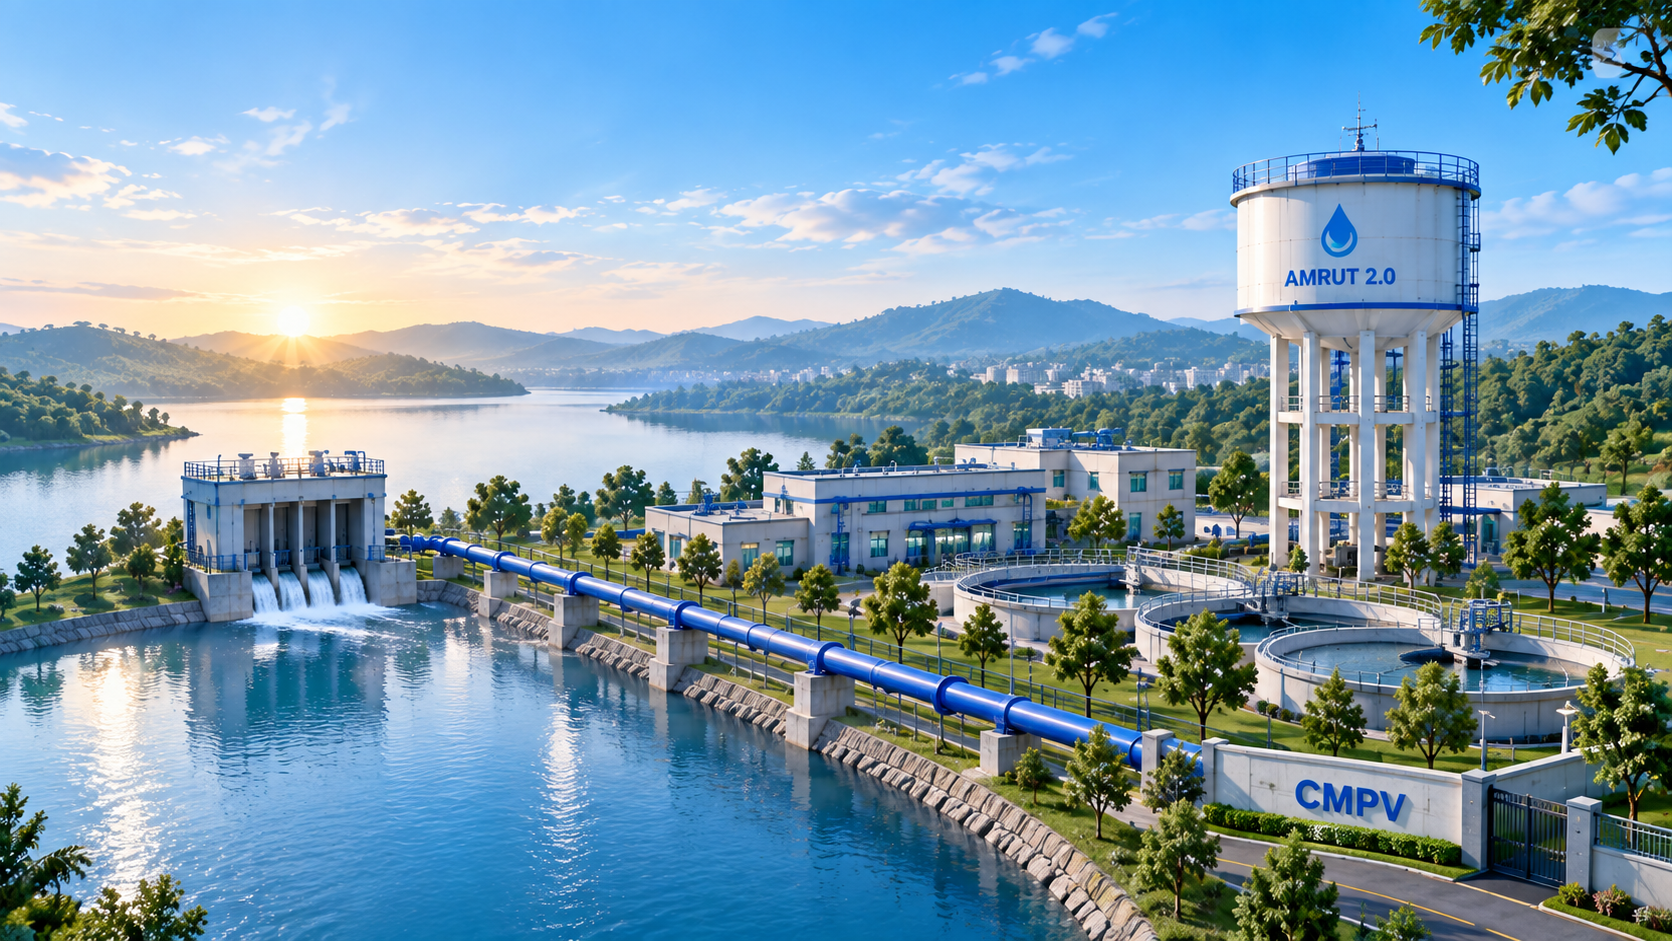
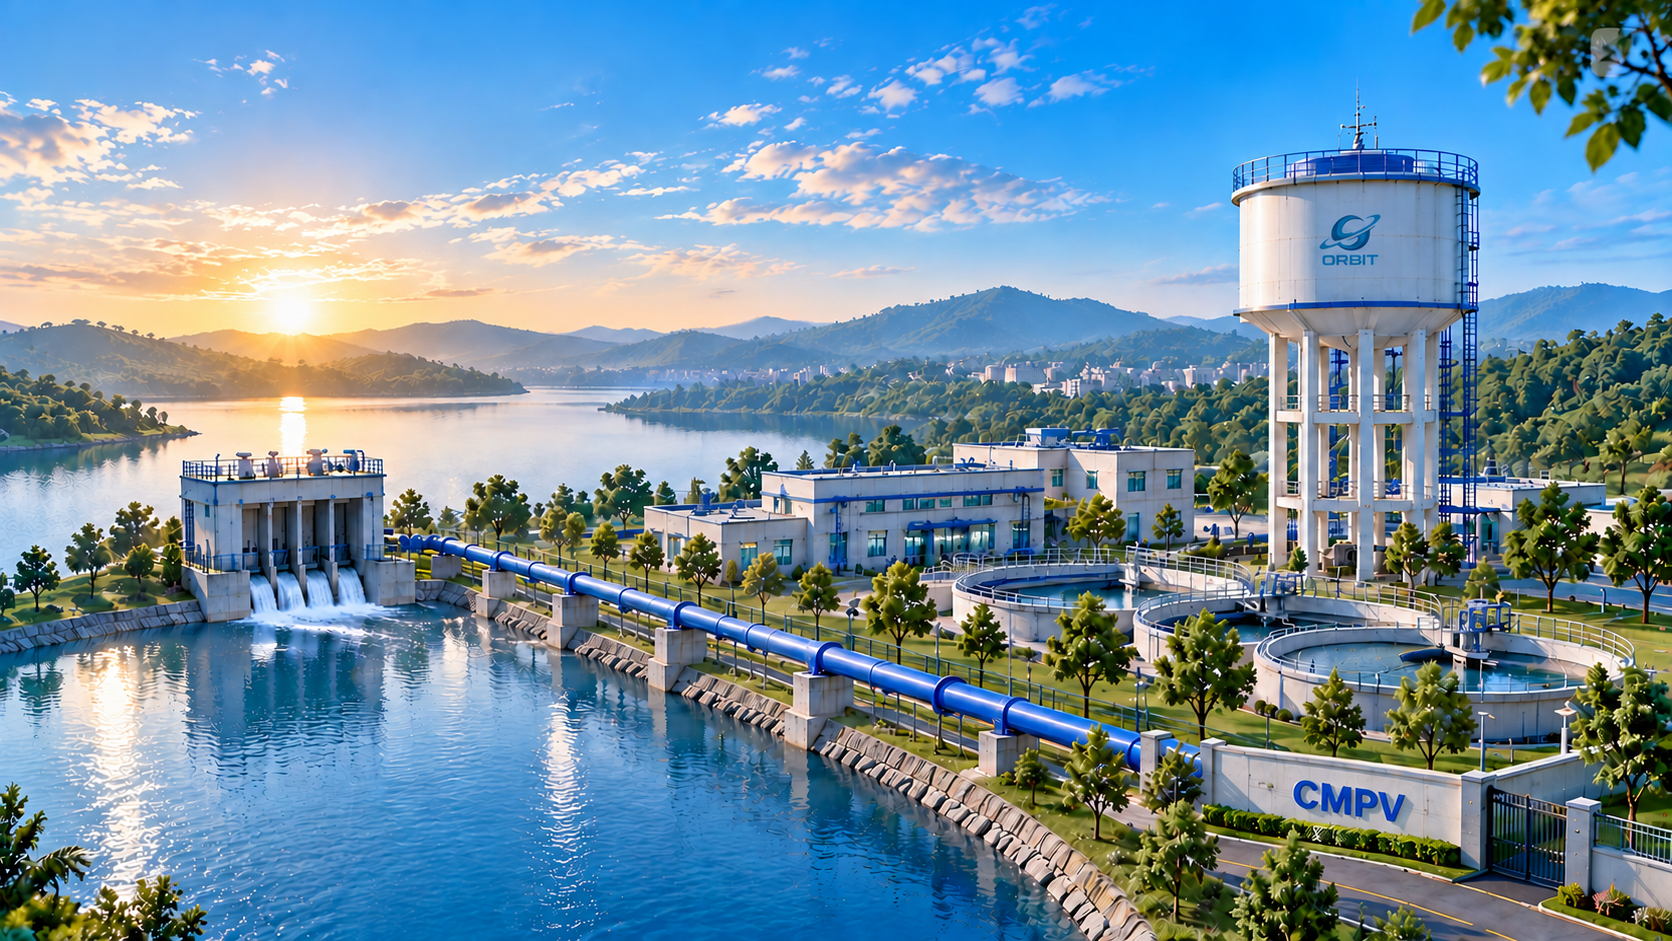
Update sign-in UI to match reference design and fix input placeholders

diff --git a/src/pages/LoginPage.tsx b/src/pages/LoginPage.tsx
@@ -1,43 +1,65 @@
-import React, { useState, useEffect } from 'react';
+import React, { useState } from 'react';
 import { useAuth } from '@/contexts/AuthContext';
-import { Lock, User, AlertCircle, Sun, Moon } from 'lucide-react';
-import orbitLogo from '@/assets/orbit-logo-optimized.png';
+import {
+  Lock,
+  User,
+  AlertCircle,
+  LogIn,
+  Activity,
+  Shield,
+  Leaf,
+  Users,
+  Eye,
+  EyeOff,
+} from 'lucide-react';
+import orbitSwirl from '@/assets/orbit-swirl.png';
 import loginBg from '@/assets/sign-in-bg.png';
 import { useLogoPreload } from '@/hooks/useLogoPreload';
+
+const AscendingBarChart = ({ className = 'w-3.5 h-3.5' }: { className?: string }) => (
+  <svg
+    viewBox="0 0 20 20"
+    fill="currentColor"
+    className={className}
+    aria-hidden="true"
+  >
+    <rect x="3" y="10.5" width="3" height="7.5" rx="1.5" />
+    <rect x="8.5" y="6.5" width="3" height="11.5" rx="1.5" />
+    <rect x="14" y="2.5" width="3" height="15.5" rx="1.5" />
+  </svg>
+);
+
+const features = [
+  {
+    icon: AscendingBarChart,
+    title: 'Real-time Monitoring',
+    subtitle: 'Data-driven operations',
+  },
+  {
+    icon: Shield,
+    title: 'Reliable Infrastructure',
+    subtitle: 'Safe & continuous supply',
+  },
+  {
+    icon: Leaf,
+    title: 'Sustainable Operations',
+    subtitle: 'Cleaner communities',
+  },
+  {
+    icon: Users,
+    title: 'Engineering Excellence',
+    subtitle: 'People. Process. Performance.',
+  },
+];
 
 const LoginPage = () => {
   const { login } = useAuth();
   const [username, setUsername] = useState('');
   const [password, setPassword] = useState('');
+  const [showPassword, setShowPassword] = useState(false);
   const [error, setError] = useState('');
   const [loading, setLoading] = useState(false);
-  const imagesReady = useLogoPreload([orbitLogo, loginBg]);
-
-  const [isDark, setIsDark] = useState(() => {
-    if (typeof window !== 'undefined') {
-      const saved = localStorage.getItem('theme');
-      if (saved) return saved === 'dark';
-      const hour = new Date().getHours();
-      const isDaytime = hour >= 6 && hour < 18;
-      return !isDaytime;
-    }
-    return true;
-  });
-
-  const toggleTheme = () => {
-    const next = !isDark;
-    setIsDark(next);
-    document.documentElement.classList.toggle('dark', next);
-    localStorage.setItem('theme', next ? 'dark' : 'light');
-  };
-
-  useEffect(() => {
-    if (isDark) {
-      document.documentElement.classList.add('dark');
-    } else {
-      document.documentElement.classList.remove('dark');
-    }
-  }, [isDark]);
+  const imagesReady = useLogoPreload([orbitSwirl, loginBg]);
 
   const handleSubmit = async (e: React.FormEvent) => {
     e.preventDefault();
@@ -58,120 +80,201 @@ const LoginPage = () => {
 
   if (!imagesReady) {
     return (
-      <div className="min-h-screen bg-background grid-pattern relative overflow-hidden" aria-hidden="true">
-        <div className="floating-orb w-96 h-96 bg-primary -top-40 -left-40" />
-        <div className="floating-orb w-80 h-80 bg-accent top-1/2 -right-32" style={{ animationDelay: '7s' }} />
+      <div className="min-h-screen bg-slate-900 flex items-center justify-center">
+        <div className="w-8 h-8 border-3 border-blue-500/30 border-t-blue-500 rounded-full animate-spin" />
       </div>
     );
   }
 
   return (
     <div
-      className="min-h-screen flex items-center justify-center bg-cover bg-center bg-no-repeat relative overflow-hidden px-4"
+      className="min-h-screen w-full relative flex items-center justify-center bg-cover bg-[center_35%] bg-no-repeat overflow-hidden select-none font-sans"
       style={{ backgroundImage: `url(${loginBg})` }}
     >
-      {/* Background Overlay */}
-      <div className="absolute inset-0 bg-background/20 dark:bg-background/50 grid-pattern pointer-events-none" />
+      {/* Top Left Company Brand Lockup */}
+      <header className="absolute top-4 left-4 sm:top-6 sm:left-9 z-20 flex items-center">
+        <img
+          src={orbitSwirl}
+          alt="Orbit Logo"
+          className="h-[30px] sm:h-[34px] w-auto object-contain flex-shrink-0"
+          loading="eager"
+          decoding="sync"
+        />
+        <div className="ml-2.5 flex flex-col justify-center leading-none">
+          <span className="text-[#0b2444] font-black text-[15px] sm:text-[17px] tracking-wide leading-none">
+            ORBIT
+          </span>
+          <span className="text-[#152e4d] font-bold text-[7.5px] sm:text-[8.5px] tracking-[0.16em] uppercase leading-none mt-1">
+            ENGINEERING SOLUTIONS
+          </span>
+        </div>
+        <div className="hidden sm:block mx-3 sm:mx-3.5 w-[1.2px] h-7 bg-slate-400/50 self-center" />
+        <div className="hidden sm:flex flex-col justify-center text-[10px] sm:text-[10.5px] font-medium text-[#152e4d] leading-[1.22]">
+          <span>Engineering</span>
+          <span>Sustainable</span>
+          <span>Tomorrows</span>
+        </div>
+      </header>
 
-      <div className="floating-orb w-96 h-96 bg-primary -top-40 -left-40 z-0" />
-      <div className="floating-orb w-80 h-80 bg-accent top-1/2 -right-32 z-0" style={{ animationDelay: '7s' }} />
+      {/* Left Column: Smart Water Infrastructure Hero & Features */}
+      <section
+        aria-label="Features"
+        className="hidden md:flex flex-col absolute left-7 sm:left-9 lg:left-10 bottom-[54px] z-10 max-w-[290px] lg:max-w-[310px]"
+      >
+        <div className="mb-3.5">
+          <h2 className="text-[21px] sm:text-[23px] font-bold text-white tracking-tight leading-[1.14] drop-shadow-[0_2px_6px_rgba(0,0,0,0.5)]">
+            Smart Water
+            <br />
+            Infrastructure
+            <br />
+            <span className="text-[#00a2ff] drop-shadow-[0_2px_8px_rgba(0,162,255,0.4)]">
+              for a Better Tomorrow
+            </span>
+          </h2>
+        </div>
 
-      <button onClick={toggleTheme}
-        className="absolute top-4 right-4 sm:top-8 sm:right-8 p-2.5 rounded-xl bg-secondary/80 hover:bg-secondary transition-all duration-200 border border-border/50 hover:scale-105 active:scale-95 z-50 shadow-sm"
-        title={isDark ? 'Switch to Light Mode' : 'Switch to Dark Mode'}>
-        {isDark ? <Sun className="h-5 w-5 text-warning" /> : <Moon className="h-5 w-5 text-foreground" />}
-      </button>
-
-      <div className="w-full max-w-md relative z-10">
-        <div className="glass-strong rounded-3xl p-8 sm:p-10 shadow-2xl border border-border/50">
-          <div className="flex items-center justify-center gap-4 mb-6">
-            <div className="flex items-center gap-2 select-none">
-              <div className="flex flex-col items-start leading-none gap-1">
-                <span className="text-[8px] sm:text-[10px] font-black tracking-[0.2em] text-cyan-600 dark:text-cyan-400 uppercase px-2 py-0.5 rounded bg-cyan-500/10 border border-cyan-500/20 dark:bg-cyan-400/10 dark:border-cyan-400/20">M/S</span>
-                <span className="text-xs sm:text-sm md:text-base font-black tracking-wider bg-gradient-to-r from-cyan-600 via-teal-600 to-emerald-600 dark:from-cyan-400 dark:via-teal-400 dark:to-emerald-400 bg-clip-text text-transparent drop-shadow-sm uppercase font-sans">
-                  CMPV Engineering Pvt. Ltd.
+        <div className="space-y-2.5">
+          {features.map((item, idx) => (
+            <div key={idx} className="flex items-center gap-2.5">
+              <div className="w-[31px] h-[31px] sm:w-[33px] sm:h-[33px] rounded-xl bg-white/20 backdrop-blur-md border border-white/35 flex items-center justify-center text-white shadow-[0_2px_6px_rgba(0,0,0,0.12)] flex-shrink-0">
+                <item.icon className="w-3.5 h-3.5 stroke-[2.2] drop-shadow-sm" />
+              </div>
+              <div className="flex flex-col leading-tight">
+                <span className="text-white font-semibold text-[11.5px] sm:text-[12px] tracking-wide drop-shadow-[0_1px_3px_rgba(0,0,0,0.6)]">
+                  {item.title}
+                </span>
+                <span className="text-white/85 font-normal text-[9.5px] sm:text-[10px] drop-shadow-[0_1px_2px_rgba(0,0,0,0.6)] mt-0.5">
+                  {item.subtitle}
                 </span>
               </div>
             </div>
-            <div className="w-px h-10 bg-border/50" />
-            <img src={orbitLogo} alt="Orbit" className="h-8 sm:h-10 w-auto" loading="eager" decoding="sync" fetchPriority="high" />
+          ))}
+        </div>
+      </section>
+
+      {/* Bottom Left Tagline */}
+      <footer className="absolute bottom-4 left-7 sm:bottom-4.5 sm:left-9 z-20 hidden sm:flex items-center gap-2">
+        <div className="w-4 h-[2px] bg-[#00a2ff] rounded-full drop-shadow-sm" />
+        <span className="text-white/95 text-[9px] font-bold tracking-[0.22em] uppercase drop-shadow-[0_1px_4px_rgba(0,0,0,0.6)]">
+          WATER &nbsp;|&nbsp; TECHNOLOGY &nbsp;|&nbsp; A BETTER TOMORROW
+        </span>
+      </footer>
+
+      {/* Main Glass Login Card */}
+      <main className="w-full max-w-[318px] mx-4 relative z-20 md:translate-x-[22px] -translate-y-0.5">
+        <div className="rounded-[32px] bg-white/85 backdrop-blur-2xl border border-white/85 shadow-[0_20px_50px_rgba(0,0,0,0.12),0_1px_3px_rgba(0,0,0,0.05)] pt-6 sm:pt-6.5 pb-6 px-6 sm:px-7 text-slate-800 transition-all">
+          {/* SCADA Portal Pill Badge */}
+          <div className="flex justify-center mb-2.5">
+            <div className="inline-flex items-center gap-1.5 px-3 py-0.5 rounded-full bg-[#e8f1fd] text-[#1d4ed8] text-[9.5px] font-bold tracking-wider uppercase shadow-xs">
+              <Activity className="w-3 h-3 stroke-[2.5]" />
+              <span>SCADA PORTAL</span>
+            </div>
           </div>
 
-          <div className="text-center mb-6">
-            <div className="inline-flex items-center gap-1 px-2.5 py-0.5 rounded-full bg-blue-500/10 dark:bg-blue-500/20 border border-blue-500/15 text-blue-600 dark:text-cyan-400 font-extrabold text-[9px] uppercase tracking-wider mb-3">
-              <span className="w-1 h-1 rounded-full bg-blue-500 animate-pulse" />
-              Package-61 · MPUDCL
-            </div>
-            
-            <h1 className="text-base sm:text-lg font-black text-foreground leading-snug tracking-tight mb-1">
-              Improvement of Water Supply Scheme
+          {/* Plant / Project Headings */}
+          <div className="text-center mb-3">
+            <h1 className="text-[14.5px] sm:text-[15px] font-extrabold text-[#0a1931] uppercase tracking-wide leading-tight">
+              CMPV ENGINEERING PVT. LTD.
             </h1>
-            
-            <p className="text-xs sm:text-sm font-extrabold bg-gradient-to-r from-blue-600 to-indigo-500 dark:from-cyan-400 dark:to-blue-400 bg-clip-text text-transparent mb-4 uppercase">
-              Shahpur, Distt. Sagar (M.P.)
+            <p className="text-[10.5px] sm:text-[11px] font-medium text-[#4b5563] mt-1 leading-snug">
+              Improvement of Water Supply Scheme
             </p>
-
-            <div className="flex items-center justify-center gap-2 text-[10px] text-muted-foreground font-semibold px-3 py-1.5 rounded-xl bg-slate-50 dark:bg-slate-900/40 border border-slate-200/40 dark:border-slate-800/40 mb-4 max-w-sm mx-auto">
-              <span>Client: <span className="text-foreground">MPUDCL</span></span>
-              <span className="w-1 h-1 rounded-full bg-border" />
-              <span>Capacity: <span className="text-foreground">1.75 MLD</span></span>
-            </div>
-
-            <div className="flex items-center justify-center gap-2">
-              <p className="text-xl sm:text-2xl font-black tracking-tight bg-gradient-to-r from-blue-600 via-indigo-600 to-violet-600 dark:from-cyan-400 dark:via-blue-400 dark:to-indigo-400 bg-clip-text text-transparent">
-                SCADA
-              </p>
-              <span className="flex items-center gap-0.5 px-1.5 py-0.5 rounded bg-emerald-500/10 dark:bg-emerald-500/20 border border-emerald-500/20 text-emerald-500 text-[8px] font-black uppercase tracking-wider">
-                LIVE
-              </span>
-            </div>
-            <p className="text-[10px] text-muted-foreground mt-1.5">Sign in to access the real-time monitoring dashboard</p>
+            <p className="text-[10px] sm:text-[10.5px] font-bold text-[#1d4ed8] uppercase tracking-wider mt-0.5">
+              SHAHPUR, DISTT. SAGAR (M.P.)
+            </p>
+            <div className="w-full h-px bg-slate-200/80 mt-3.5 mb-3" />
           </div>
 
-          <form onSubmit={handleSubmit} className="space-y-5">
+          {/* Login Form */}
+          <form onSubmit={handleSubmit} className="space-y-2.5">
             <div>
-              <label className="text-sm font-medium text-foreground mb-1.5 block">Username</label>
-              <div className="relative">
-                <User className="absolute left-3 top-1/2 -translate-y-1/2 h-4 w-4 text-muted-foreground" />
-                <input type="text" value={username} onChange={(e) => setUsername(e.target.value)} placeholder="Enter username"
-                  className="w-full pl-10 pr-4 py-3 rounded-xl bg-secondary/80 border border-border/50 text-foreground placeholder:text-muted-foreground focus:outline-none focus:ring-2 focus:ring-primary/50 transition-all"
-                  required autoComplete="username" autoFocus />
+              <label className="block text-[11px] font-semibold text-[#1e293b] mb-1">
+                Username
+              </label>
+              <div className="relative flex items-center">
+                <User className="absolute left-3.5 h-3.5 w-3.5 text-[#475569] pointer-events-none" />
+                <input
+                  type="text"
+                  value={username}
+                  onChange={(e) => setUsername(e.target.value)}
+                  placeholder="Username"
+                  className="w-full pl-9 pr-3.5 h-10 rounded-2xl bg-[#edf2f7] text-[12px] font-normal text-[#1e293b] placeholder:text-[#94a3b8] border border-transparent focus:border-blue-400 focus:bg-white focus:outline-none transition-all"
+                  required
+                  autoComplete="username"
+                />
               </div>
             </div>
 
             <div>
-              <label className="text-sm font-medium text-foreground mb-1.5 block">Password</label>
-              <div className="relative">
-                <Lock className="absolute left-3 top-1/2 -translate-y-1/2 h-4 w-4 text-muted-foreground" />
-                <input type="password" value={password} onChange={(e) => setPassword(e.target.value)} placeholder="Enter password"
-                  className="w-full pl-10 pr-4 py-3 rounded-xl bg-secondary/80 border border-border/50 text-foreground placeholder:text-muted-foreground focus:outline-none focus:ring-2 focus:ring-primary/50 transition-all"
-                  required autoComplete="current-password" />
+              <label className="block text-[11px] font-semibold text-[#1e293b] mb-1">
+                Password
+              </label>
+              <div className="relative flex items-center">
+                <Lock className="absolute left-3.5 h-3.5 w-3.5 text-[#475569] pointer-events-none" />
+                <input
+                  type={showPassword ? 'text' : 'password'}
+                  value={password}
+                  onChange={(e) => setPassword(e.target.value)}
+                  placeholder="Password"
+                  className="w-full pl-9 pr-9 h-10 rounded-2xl bg-[#edf2f7] text-[12px] font-normal text-[#1e293b] placeholder:text-[#94a3b8] border border-transparent focus:border-blue-400 focus:bg-white focus:outline-none transition-all"
+                  required
+                  autoComplete="current-password"
+                />
+                <button
+                  type="button"
+                  onClick={() => setShowPassword(!showPassword)}
+                  className="absolute right-3.5 p-0.5 text-[#64748b] hover:text-[#1e293b] transition-colors focus:outline-none cursor-pointer"
+                  aria-label={showPassword ? 'Hide password' : 'Show password'}
+                >
+                  {showPassword ? (
+                    <Eye className="h-3.5 w-3.5" />
+                  ) : (
+                    <EyeOff className="h-3.5 w-3.5" />
+                  )}
+                </button>
               </div>
             </div>
 
             {error && (
-              <div className="flex items-center gap-2 text-destructive text-sm bg-destructive/10 rounded-xl px-4 py-3">
-                <AlertCircle className="h-4 w-4 flex-shrink-0" />
-                {error}
+              <div className="flex items-center gap-1.5 text-rose-600 text-[10.5px] bg-rose-50 border border-rose-200 rounded-lg px-2.5 py-1 mt-1">
+                <AlertCircle className="h-3 w-3 flex-shrink-0" />
+                <span>{error}</span>
               </div>
             )}
 
-            <button type="submit" disabled={loading}
-              className="w-full py-3 rounded-xl bg-primary text-primary-foreground font-semibold text-sm hover:bg-primary/90 transition-all duration-200 disabled:opacity-50 disabled:cursor-not-allowed hover:scale-[1.02] active:scale-[0.98]">
+            <button
+              type="submit"
+              disabled={loading}
+              className="w-full mt-3.5 h-10 rounded-2xl bg-gradient-to-r from-[#0066f6] to-[#0094ff] hover:from-[#0055d4] hover:to-[#0084eb] text-white font-bold text-[13px] tracking-wide shadow-[0_4px_14px_rgba(0,102,246,0.35)] active:scale-[0.99] transition-all flex items-center justify-center gap-2 disabled:opacity-60 disabled:cursor-not-allowed cursor-pointer"
+            >
               {loading ? (
                 <span className="flex items-center justify-center gap-2">
-                  <div className="w-4 h-4 border-2 border-primary-foreground/30 border-t-primary-foreground rounded-full animate-spin" />
+                  <div className="w-3.5 h-3.5 border-2 border-white/30 border-t-white rounded-full animate-spin" />
                   Signing in...
                 </span>
-              ) : 'Sign In'}
+              ) : (
+                <>
+                  <LogIn className="h-3.5 w-3.5 stroke-[2.3]" />
+                  <span>Sign In</span>
+                </>
+              )}
             </button>
           </form>
 
-          <p className="text-center text-[11px] text-muted-foreground mt-6">
-            Powered by M/s. CMPV Engineering × Orbit Engineering Solutions
-          </p>
+          {/* Card Footer */}
+          <div className="text-center mt-4.5 sm:mt-5 space-y-0.5">
+            <p className="text-[10px] text-[#475569]">
+              Powered by{' '}
+              <span className="font-bold text-[#0f172a]">
+                Orbit Engineering Solutions
+              </span>
+            </p>
+            <p className="text-[9.5px] text-[#64748b]">
+              For a Smarter and Sustainable Water Future
+            </p>
+          </div>
         </div>
-      </div>
+      </main>
     </div>
   );
 };

diff --git a/src/hooks/useLogoPreload.ts b/src/hooks/useLogoPreload.ts
@@ -2,11 +2,12 @@ import { useEffect, useState } from 'react';
 
 export function useLogoPreload(sources: string[]) {
   const [ready, setReady] = useState(false);
+  const sourcesKey = sources.join('|');
 
   useEffect(() => {
     let cancelled = false;
     let loadedCount = 0;
-    const uniqueSources = Array.from(new Set(sources.filter(Boolean)));
+    const uniqueSources = Array.from(new Set(sourcesKey.split('|').filter(Boolean)));
 
     if (uniqueSources.length === 0) {
       setReady(true);
@@ -40,7 +41,7 @@ export function useLogoPreload(sources: string[]) {
         img.onerror = null;
       });
     };
-  }, [sources.join('|')]);
+  }, [sourcesKey]);
 
   return ready;
 }
